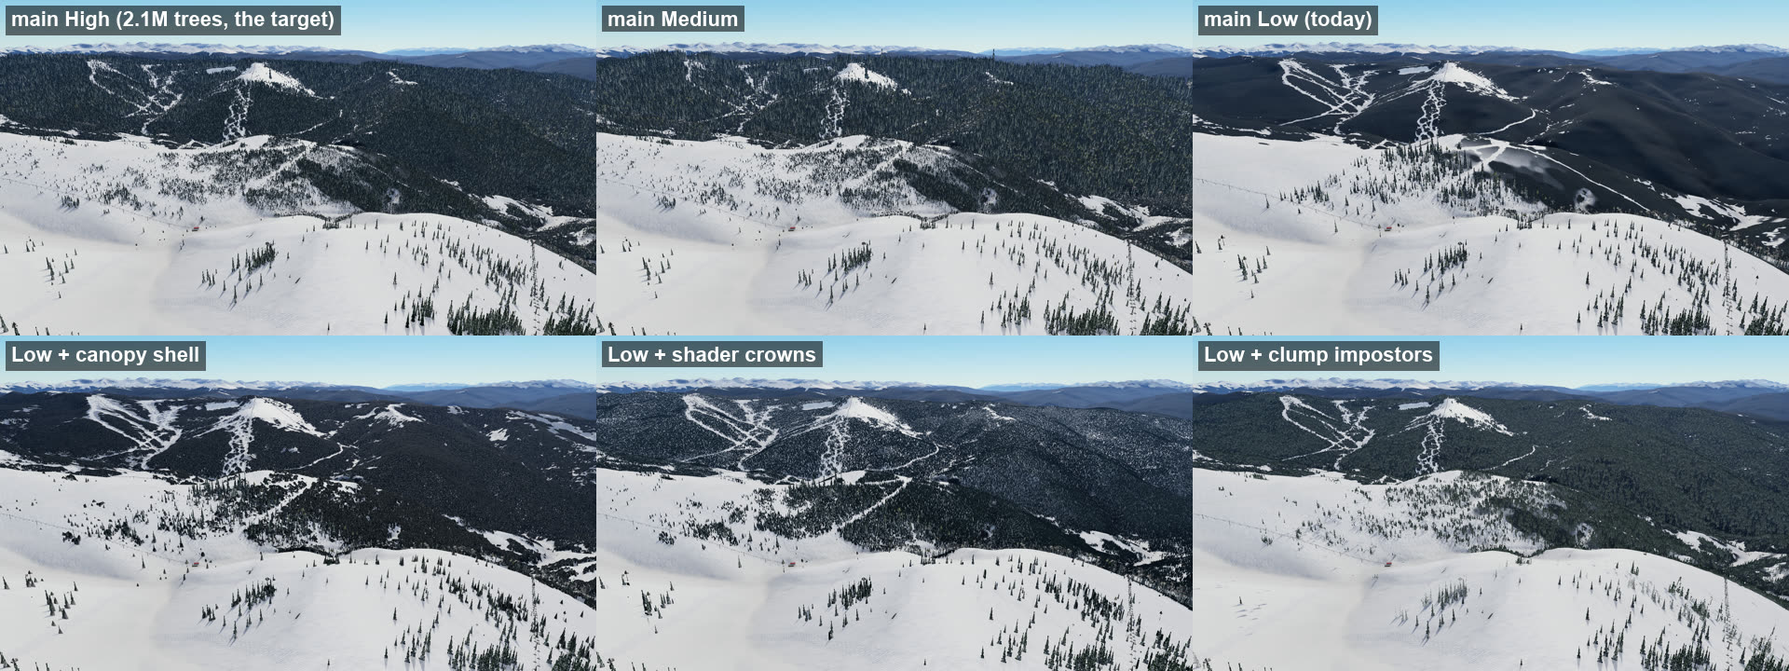
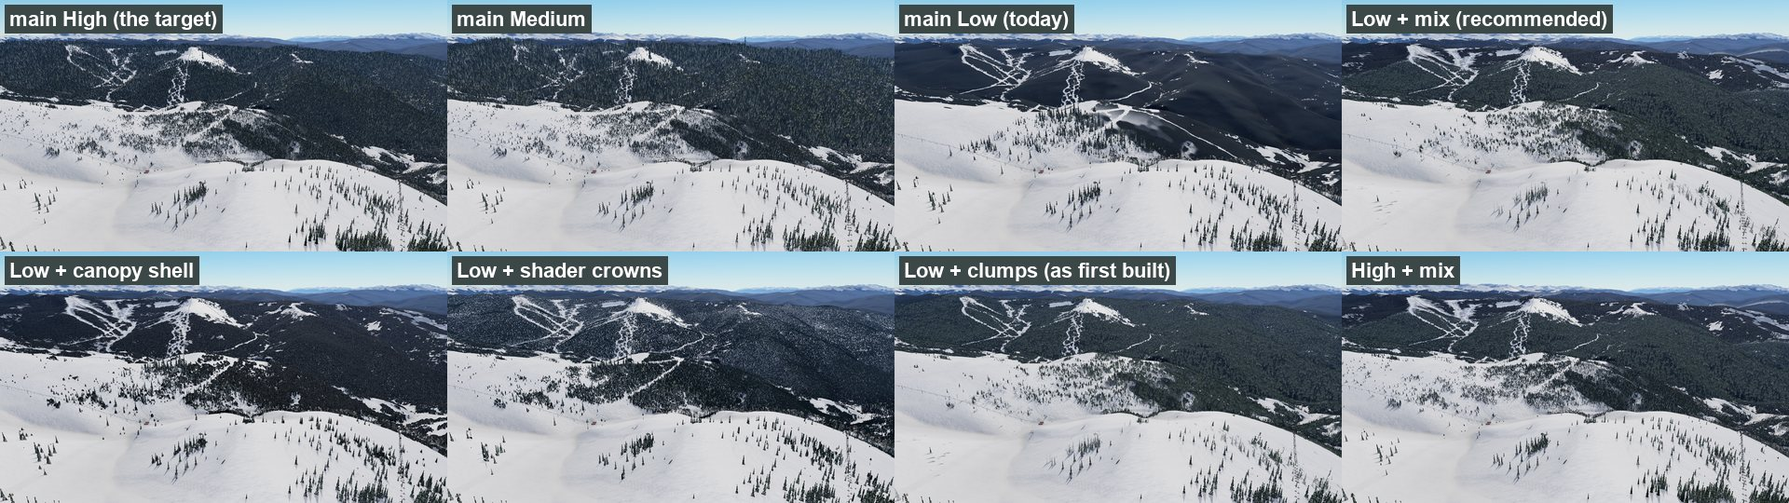
FEAT-278: after Drew's review, recommend the mix (clumps to 4.5 km, then the canopy shell) with the crown dither; review table, what was tried, mix column in the comparison; canopy_clip measures flicker and pops over the whole frame (--stats)

diff --git a/docs/research/far-forest-canopy.md b/docs/research/far-forest-canopy.md
@@ -1,14 +1,16 @@
 # Far forest canopy: hiding the snow like real trees (FEAT-278)
 
-Card: [FEAT-278 (#614)](https://github.com/drewkeriazes/SnowboardAnywhere/issues/614). Related: BUG-114 (#612), BUG-074 (#417), BUG-069 (#387), FEAT-154 (#347), FEAT-184 (#434), FEAT-228 (#530), FEAT-236 (#556).
+Card: [FEAT-278 (#614)](https://github.com/drewkeriazes/SnowboardAnywhere/issues/614). Related: BUG-114 (#612), BUG-074 (#417), BUG-069 (#387), FEAT-154 (#347), FEAT-184 (#434), FEAT-228 (#530), FEAT-236 (#556). Found along the way: BUG-120 (#632), BUG-121 (#633).
 
-A research and compare card: three ways to draw dense forest at 0.6 to 6 km were prototyped on their own branches, behind a URL flag, and measured against `main` at the same poses, light and settings. Nothing here ships; the winner gets its own build card.
+A research and compare card: three ways to draw dense forest at 0.6 to 6 km were prototyped on their own branches, behind a URL flag, and measured against `main` at the same poses, light and settings. After Drew's review a fourth, a mix of two of them by distance, was built and measured the same way. Nothing here ships; the winner gets its own build card.
 
 ## Recommendation
 
-**Clump impostors.** On Low it turns the flat navy slab into forest that reads close to High in all four views, at noon and at dawn. It is the steadiest of the three in motion. It costs about 0.5 ms of GPU on Low, nothing on Medium, and is slightly cheaper than `main` on High, where it replaces the per-tree impostor ring past 2.5 km and uses about 40 MB less geometry. It needs nothing new in the pack. The canopy shell is the runner-up: just as cheap on the GPU, but its 0.6 to 2 km band reads as dark cones and blotches rather than trees. Shader crowns look good from the snow but cost 3 to 9 ms at 1080p (5 to 15 ms at 1440p), shimmer the most and are too speckled from the air.
+**A mix by distance (`issue-614-canopy-mix`, `?canopy=mix`): clump impostors from where the drawn trees end out to 4.5 km, then the canopy shell out to 14 km.** No one technique won every view (see [Review](#review-2026-11-13)): clumps are the best from the snow and the steadiest in motion but were flat from the air; the shell gives the far mountains texture and shape and hides the ground under them, but from the snow at 0.6 to 3 km it reads as dark blobs; shader crowns look best from the air but cost 3 to 9 ms. The mix uses each where it is strong, and adds a crown dither to the clumps so they keep their texture from the air ([The mix](#the-mix)).
 
-What the build card for clumps has to add (from the prototype's gaps, below): more than one species mix, conservative depth so the cards keep early-Z, the bake off the load path, a check of the handover and runtime setting changes in a real ride, and render-budget and synth-pack coverage.
+On Low it reads close to High in all four views at noon and at dawn. GPU cost against `main` (1080p, ground / aerial): High -0.5 / -1.6 ms, Medium +0.1 / -0.2, Low -0.3 / +0.8 (+0.9 / +1.2 at 1440p). In the ride clip it flickers about as little as clumps alone (3.99 against `main`'s 3.87 on Low; 4.50 against 4.89 on High) and has under half of `main`'s pop-ins at the Low tree edge (8 against 19 in the top-left third of the frame, BUG-121). It needs nothing new in the pack.
+
+What the build card has to decide: whether High uses the mix too, or keeps `main`'s impostors with the shell only past 9 km (on High the mix is cheaper but a small step down from today; see [The mix](#the-mix)). What it has to add (from the prototypes' gaps, below): the shell reads stem density as well as the detected crowns, so its clearings stop being larger than High's; the shell's tile builds off the main thread (330 ms over about 80 frames today, up to 7.6 ms in one); fewer shell draw calls on Low (+38 for the mix); more than one species mix in the clumps; conservative depth so the clump cards keep early-Z; the clump bake off the load path; the clumps' dawn tone (still darker than High's warm-lit crowns); a check of the 4.5 km seam and of runtime setting changes in a real ride; render-budget and synth-pack coverage.
 
 ## The problem
 
@@ -31,10 +33,10 @@ Fixed poses in `game/tools/canopy-views.json` (pack metres, heading from grid no
 
 - **Stills:** `game/tools/canopy_compare.mjs` shoots every view per build at noon (12 h) and low sun (7.6 h), at 1920x1080 and 2560x1440, on each preset (High, Medium, Low as Settings > Graphics sets them, pixel ratio 1, Auto quality off), clear weather, Vail v4 pack, on Drew's RTX 2070 SUPER (ANGLE D3D11, headless). It waits for the tiles, trees and the candidate's own build to settle.
 - **Cost:** GPU time per frame from timer queries (`EXT_disjoint_timer_query_webgl2`), median of 30 frames after a 120-frame warm-up; every build measured twice in alternating order and the lower of the two taken. Wall-clock frame times swung by up to 10 ms between identical runs on this PC (the GPU idles at 300 MHz between bursts and the desktop is in use), GPU time by about 0.4 ms; two of the eight passes were still disturbed (main's second pass on Medium and Low, crowns' first on High and Medium), which the minimum discards. Draw calls, triangles and a scene memory estimate (every geometry buffer and texture reachable from the scene, counted once) come from the same frames.
-- **Handover:** `game/tools/canopy_clip.mjs` glides the eye camera 500 m down The Slot at 25 m/s looking at the middle of the Sun Up Express, Low and High, 30 fps. Two numbers from each clip's forest band (rows 25 to 60%): spikes in the frame-to-frame difference (a pop) and the temporal second difference (flicker; smooth motion mostly cancels).
+- **Handover:** `game/tools/canopy_clip.mjs` glides the eye camera 500 m down The Slot at 25 m/s looking at the middle of the Sun Up Express, Low and High, 30 fps. Two numbers from each clip, over the whole frame (decoded to 640x360): flicker, the mean temporal second difference per pixel (smooth motion mostly cancels), and pops, a 16 px block whose brightness steps between two frames while holding steady for 4 frames either side (something appeared or vanished rather than slid past), binned to a 3x3 grid of the frame. The first write-up measured only rows 25 to 60% and reported no pops; that missed the pop-ins Drew saw at the top left on Low.
 - **Baselines:** `main` at each preset. `main` High is the brute-force look the card calls right.
 
-The full set (every build, preset, view and light, 1080p frames and native-pixel 1440p crops, a full-size flip view, and the handover clips) is on the comparison page, a private claude.ai artifact: https://claude.ai/artifact/2gWCh56cdmCCSaZNAceLgA. Grids of Low with each candidate against `main` (1080p, scaled):
+The full set (every build, preset, view and light, 1080p frames and native-pixel 1440p crops, a full-size flip view, and the handover clips) is on the comparison page, a private claude.ai artifact: https://claude.ai/artifact/2gWCh56cdmCCSaZNAceLgA. Grids of Low with each candidate against `main`, and the mix on High (1080p, scaled):
 
 | View | Noon | Low sun (7.6 h) |
 |---|---|---|
@@ -59,32 +61,65 @@ Each is on its own branch, off this card's branch, behind `?canopy=<name>`; with
 
 `game/src/terrain/canopyCrowns.ts`, spliced into the terrain shader under a define: each 4 m cell of the tree map holds at most one jittered ellipsoid crown from a hash, sized by the canopy height (put in the trees texture's spare A channel). Per pixel the view ray is walked back cell by cell (up to 20) with front-to-back occlusion, so crowns have real parallax and a lit and a shaded side; pixels that show snow walk toward the sun for short crown shadows. Past about 1.7 km (1080p) crowns hand over to 8 m clumps, then to the old flat canopy past about 3.5 km, so the lattice never aliases into moire. Inside the drawn trees' reach it fills only the share the drawn trees leave over, so High and Medium get no double forest.
 
+## Review (2026-11-13)
+
+Drew went through the comparison page and the clips. The first write-up recommended clumps on the ground views and the flicker numbers; the review ranked each view on its own and reversed parts of it.
+
+| View | Best | Worst | Notes |
+|---|---|---|---|
+| Ground stills, Low | clumps | `main`, shell | `main` is the flat slab; the shell's near band reads as dark cones |
+| Handover clip, Low | crowns, then clumps | `main` (top left), shell (top right) | Pop-ins at the top left as the rider closes in: the drawn trees appearing at Low's 600 m edge, on `main` too (BUG-121) |
+| Handover clip, High | clumps | | Smoother, less jitter, still reads 3D |
+| Aerial, noon | crowns, shell | clumps | Clumps read as flat felt from above |
+| Aerial, dawn (7.6 h) | crowns, then shell | clumps | Clumps barely change `main` Low's dark slab |
+| Far mountains | shell | | Texture and shape, and no brown ground showing under it |
+
+Two claims in the first write-up were wrong: shader crowns are not "too speckled and grey" from the air (they are the closest to High there), and "no pops were measured" came from a measure that only looked at rows 25 to 60% of the frame. Drew also circled grey-brown ground between the trees at 1 to 3 km on **`main` High**, the target itself; none of the candidates touches the ground under the drawn trees, so it is its own card (BUG-120, #632).
+
+Drew's direction: combine techniques by render distance, the shell for the far mountains.
+
+## The mix
+
+Branch `issue-614-canopy-mix` (the clumps branch with the shell merged in), `?canopy=mix`. Both prototypes run at once: the drawn trees, then the clumps from where the trees' full density ends (Low 600 m, Medium 1.9 km, High 2.5 km) out to 4.5 km (at least 800 m and half the trees' reach past their edge), then the shell from there to 14 km (sinking over the last 2 km, where the terrain's canopy lift takes over). The shell rises over the same 300 m the clumps dissolve out over. `?clumpfar=` and `?shellfar=` move the two edges. Both read the Vegetation bands every frame, so a Trees or Forest change moves them with no rebuild. On High the mix replaces the per-tree impostors past 2.5 km (main draws them to 9 km).
+
+What was tried on the way, on Low at the aerial and The Slot corner, noon and dawn:
+
+1. **Handover at 2 km** (the shell from 2 km). From the air this looked right, but from the snow the slope 2 to 3 km out read as the shell's dark blobs with smooth ridgelines and trails that look too wide, where clumps alone read as trees. The shell's weak band is not only its 4 m tiles near the trees; it is any shell seen at a grazing angle within about 3 km. Starting at 2 km also saved less than expected: the shell still built 200 to 270 tiles (25 to 29 MB), because the tile count is set by the far rings, not the near ones.
+2. **Why the clumps are flat from the air.** The stand atlases are baked at full size and box-filtered down the mips, so far off a pixel shows the average of many crowns: their snow, their sunlit sides and their shaded gaps blend into one dark tone. At dawn every crown gets the stand's mostly-shaded average. The shell and the crowns keep a per-crown speckle instead, which is what High's real trees make when they alias. More snow on the crowns (`?clumpsnow=0.7`) and a brighter tone (`?clumpgain=1.35`) helped little.
+3. **Crown dither** (`clumps.ts`, on in the mix, `?clumpdither=0` turns it off). Where the atlas is minified, each pixel draws one crown from a hash per 4.5 m world cell: lit or shaded, snowy or bare, with the averaged value as its chance, and the needle tone varied 70 to 130%. The mean stays the same and the speckle comes back. Snowy crowns draw at 0.4 white (`?clumpspeak=`; at 0.85 they read as hard white dots). From the air the clumps now read close to High at noon; at dawn they have the texture but are still darker than High's warm-lit crowns. From the snow at dawn it also helps: the far slope at The Slot corner goes from a flat brown-dark tone to textured forest.
+4. **Dither shimmer.** In the Low clip the dither raised flicker from 3.91 (clumps alone) to 4.28, as much as shader crowns: a crown cell 1 to 2 px across flips as the camera moves. It now fades back to the average where a cell is under about 2 px (`?clumpdpx0=1.2&clumpdpx1=2.5`, from the cell's screen footprint), which brought it to 3.99 (High 4.70 to 4.50) and kept the texture from the air.
+5. **Handover at 4.5 km, shell to 14 km.** From the snow the clumps carry everything within 3 km, where they were best; the shell carries the far ridges and the ranges behind them.
+
+Gaps seen in the mix: past 4.5 km the shell leaves larger white clearings than High (it reads only the detected crowns map, `cover/pack-stands.png` G, while High also draws the generated stems); the shell's ridgelines are smooth where High's have tree tops; the seam at 4.5 km was not checked in a live ride. On **High** the mix is a small step down from `main` High, the target: past 2.5 km the clumps read greener and smoother than `main`'s per-tree impostors, and past 4.5 km the shell's clearings show. The build card has to choose whether High keeps `main`'s impostors out to 9 km with the shell only past them (High looks as today; the mix's 0.5 to 1.6 ms saving there is given up), or takes the mix and fixes those two gaps.
+
 ## Comparison
 
-GPU ms per frame, change against `main` at the same view and preset (lower of two passes). "Ground" is the mean of the three ground views; the aerial is its own column because forest fills most of that frame.
+GPU ms per frame, change against `main` at the same view and preset (lower of two passes). "Ground" is the mean of the three ground views; the aerial is its own column because forest fills most of that frame. Shell, crowns and clumps were measured in the first session; the mix in a second session against `main` measured again in that session, alternating (main 1080p ground / aerial there: High 10.2 / 15.6, Medium 9.3 / 13.7, Low 9.3 / 12.1).
 
-| | `main` ground / aerial | Shell | Crowns | Clumps |
+| | `main` ground / aerial | Shell | Crowns | Clumps | **Mix** |
+|---|---|---|---|---|---|
+| High 1080p | 10.3 / 15.4 | +0.0 / +0.1 | +2.9 / +8.4 | -0.1 / -0.3 | **-0.5 / -1.6** |
+| Medium 1080p | 9.4 / 13.8 | +0.1 / +0.1 | +3.5 / +9.1 | +0.1 / -0.1 | **+0.1 / -0.2** |
+| Low 1080p | 8.6 / 12.5 | +0.2 / +0.2 | +3.3 / +8.3 | +0.6 / +0.5 | **-0.3 / +0.8** |
+| High 1440p | 14.6 / 22.1 | -0.1 / +0.1 | +5.2 / +14.9 | +0.0 / -1.4 | **-0.7 / -2.2** |
+| Medium 1440p | 13.4 / 19.9 | +0.3 / +0.1 | +5.1 / +14.0 | +0.6 / +0.1 | **+0.1 / -0.5** |
+| Low 1440p | 12.5 / 18.1 | +0.4 / +1.1 | +5.1 / +13.4 | +0.8 / +0.9 | **+0.9 / +1.2** |
+
+The mix's Low ground figure at 1080p (-0.3) is within the noise (one `main` pass on Low was disturbed and discarded); read it as no change. It was measured before the dither fade (step 4 above), which adds one `fwidth` per clump pixel.
+
+| | Canopy shell | Clump impostors | Shader crowns | **Mix** (clumps to 4.5 km, shell past) |
 |---|---|---|---|---|
-| High 1080p | 10.3 / 15.4 | +0.0 / +0.1 | +2.9 / +8.4 | -0.1 / -0.3 |
-| Medium 1080p | 9.4 / 13.8 | +0.1 / +0.1 | +3.5 / +9.1 | +0.1 / -0.1 |
-| Low 1080p | 8.6 / 12.5 | +0.2 / +0.2 | +3.3 / +8.3 | +0.6 / +0.5 |
-| High 1440p | 14.6 / 22.1 | -0.1 / +0.1 | +5.2 / +14.9 | +0.0 / -1.4 |
-| Medium 1440p | 13.4 / 19.9 | +0.3 / +0.1 | +5.1 / +14.0 | +0.6 / +0.1 |
-| Low 1440p | 12.5 / 18.1 | +0.4 / +1.1 | +5.1 / +13.4 | +0.8 / +0.9 |
-
-| | Canopy shell | Clump impostors | Shader crowns |
-|---|---|---|---|
-| **Looks, Low** | Big step up: speckled crown mass with white runs. From the air close to High. From the snow the 0.6 to 2 km band is dark cones and blotches with more white between than High's spires; dark and harsh at dawn | Closest to High in every view, noon and dawn: uneven crown tops, runs and glades cut clean, single trees on sparse slopes. Gaps: a rounder "carpet" than High's spires at 2 to 4 km, smoother skylines, wider-looking trails, less snow speckle in dense stands | Good from the snow: crowns with parallax and white between. From the air too speckled and grey. Flat tops on stands seen edge on (capped walks); no tree silhouettes on ridgelines; at 720p slopes past 2.5 km are still the slab |
-| **Looks, Medium and High** | Unchanged (fills only past the impostors) | Close to `main`, slightly greener and smoother past 1.9 / 2.5 km | Unchanged |
-| **Flicker in the clip, Low / High** (`main` 2.92 / 3.74) | 3.04 / 3.74 | 2.81 / 3.32, the steadiest | 3.33 / 3.78, the most |
-| **Pops in the clip** | None measured | None measured | None measured |
-| **Draw calls (1080p)** | Low +77 to +81, Medium +24 to +30, High +15 to +17 | +1 on Low; High 65 fewer (tree draws 99 to 31 to 42) | 0 |
-| **Triangles** | Low +0.7 M | Low +0.07 M; High -0.2 M | 0 |
-| **GPU memory** | Low 31 to 35 MB, High 7 MB of tile buffers | 24 MB of atlases plus 1 to 3 MB of instances; High drops about 40 MB of tree geometry | None (uses a spare channel) |
-| **One-off build** | Low 730 ms over 163 frames, up to 6 to 8 ms in one frame; 23 MB of CPU for the crown pyramid | Bake 85 to 140 ms at load (synchronous), placement spread over frames | None |
-| **Pack data** | None new. A per-texel canopy height would help the near band (MapPacker) | None new. Species per cell would allow mixed stands (MapPacker) | None new |
-| **Effort to production** | 6 to 9 days | 5 to 8 days | 4 to 7 days, and under 1 ms is not assured |
-| **Main risks** | Draw calls on Low; main-thread build hitches; LOD pops between tile levels; looks least like trees near | `gl_FragDepth` costs early-Z on every covered pixel; one conifer mix; repetition on big uniform slopes; trees swap identity in the handover band | Fragment cost scales with on-screen forest, on a terrain shader already over half the frame (FEAT-236); register pressure for every terrain pixel |
+| **Looks, Low** | Big step up: speckled crown mass with white runs. From the air close to High. From the snow the 0.6 to 2 km band is dark cones and blotches with more white between than High's spires; dark and harsh at dawn | Closest to High in every view, noon and dawn: uneven crown tops, runs and glades cut clean, single trees on sparse slopes. Gaps: a rounder "carpet" than High's spires at 2 to 4 km, smoother skylines, wider-looking trails, less snow speckle in dense stands. Flat from the air, worst at dawn (Drew's review) | Good from the snow: crowns with parallax and white between. From the air the closest to High (Drew's review; the first write-up called it too speckled). Flat tops on stands seen edge on (capped walks); no tree silhouettes on ridgelines; at 720p slopes past 2.5 km are still the slab | Close to High in all four views, noon and dawn: clumps within 4.5 km (with the crown dither, textured from the air too), the shell's texture on the far ridges. Gaps: clearings past 4.5 km larger than High's; smooth far ridgelines; dawn darker than High |
+| **Looks, Medium and High** | Unchanged (fills only past the impostors) | Close to `main`, slightly greener and smoother past 1.9 / 2.5 km | Unchanged | Clumps 1.9 / 2.5 to 4.5 km, the shell past, in place of `main`'s impostors to 5.4 / 9 km |
+| **Flicker in the clip, whole frame, Low / High** (`main` 3.87 / 4.89) | 4.10 / 4.89 | 3.91 / 4.48, the steadiest | 4.30 / 4.94, the most | 3.99 / 4.50 (4.28 / 4.70 before the dither fade) |
+| **Pops in the clip, Low / High** (`main` 78 / 55; top-left third of the frame 19 / 3) | 74 / 52; top left 21 / 2 | 53 / 58; top left 7 / 4 | 70 / 52; top left 19 / 5 | 53 / 57; top left 8 / 4 |
+| **Draw calls (1080p)** | Low +77 to +81, Medium +24 to +30, High +15 to +17 | +1 on Low; High 65 fewer (tree draws 99 to 31 to 42) | 0 | Low +38, Medium +12, High 28 fewer (four-view means) |
+| **Triangles** | Low +0.7 M | Low +0.07 M; High -0.2 M | 0 | Low +0.35 M, Medium +0.26 M, High +0.04 M |
+| **GPU memory** | Low 31 to 35 MB, High 7 MB of tile buffers | 24 MB of atlases plus 1 to 3 MB of instances; High drops about 40 MB of tree geometry | None (uses a spare channel) | 24 MB of clump atlases plus 17 MB of shell tiles (136 tiles); scene geometry Low +23 MB, High -18 MB |
+| **One-off build** | Low 730 ms over 163 frames, up to 6 to 8 ms in one frame; 23 MB of CPU for the crown pyramid | Bake 85 to 140 ms at load (synchronous), placement spread over frames | None | Clump bake 90 to 140 ms at load; shell 330 ms over about 80 frames, up to 7.6 ms in one; the CPU crown pyramid (23 MB) |
+| **Pack data** | None new. A per-texel canopy height would help the near band (MapPacker) | None new. Species per cell would allow mixed stands (MapPacker) | None new | None new; both MapPacker notes apply |
+| **Effort to production** | 6 to 9 days | 5 to 8 days | 4 to 7 days, and under 1 ms is not assured | 8 to 12 days (both, plus the seam) |
+| **Main risks** | Draw calls on Low; main-thread build hitches; LOD pops between tile levels; looks least like trees near | `gl_FragDepth` costs early-Z on every covered pixel; one conifer mix; repetition on big uniform slopes; trees swap identity in the handover band | Fragment cost scales with on-screen forest, on a terrain shader already over half the frame (FEAT-236); register pressure for every terrain pixel | Both sets of risks, though the shell's worst (its near band, its 4 m tiles) are gone; a seam at 4.5 km between two different looks |
 
 The baselines also say something: on this GPU High (2.1M trees and sun shadows) costs only about 1.7 ms more GPU than Low at 1080p (10.3 against 8.6 ms on the ground views). High's price is memory (about 90 MB more geometry), loading and CPU more than GPU time.
 
@@ -116,10 +151,10 @@ $env:SHOT_DIST='C:\Users\Drew\git\wt614-clump-impostors\game\dist'; $env:SHOT_PA
 node tools/launcher.mjs --port 5191 --no-open
 ```
 
-then open `http://localhost:5191/?pack=vail&canopy=clumps` (or `shell`, `crowns` with that branch's `dist`). Set Graphics to Low to see the difference; Auto quality changes the reach while riding.
+then open `http://localhost:5191/?pack=vail&canopy=clumps` (or `shell`, `crowns` with that branch's `dist`; `mix` with `wt614-canopy-mix`'s, the recommended one). Set Graphics to Low to see the difference; Auto quality changes the reach while riding.
 
 ## Tools added
 
 - `game/tools/canopy_compare.mjs`: the stills and cost matrix (`--presets`, `--times`, `--sizes`, `--only`, `--no-shots`; `SHOT_DIST`, `SHOT_PACKS`, `SHOT_QUERY`).
-- `game/tools/canopy_clip.mjs`: the handover clip down The Slot (`--preset`, `--time`, `--speed`, `--seconds`, `--path`, `--look`).
+- `game/tools/canopy_clip.mjs`: the handover clip down The Slot (`--preset`, `--time`, `--speed`, `--seconds`, `--path`, `--look`); prints the clip's flicker and pops over the whole frame, and `--stats a.mp4 b.mp4` measures existing clips.
 - `game/tools/canopy-views.json`: the four views.

diff --git a/docs/developer-guide.md b/docs/developer-guide.md
@@ -171,7 +171,7 @@ A new event: add it to the union, emit it where the news is known, subscribe whe
 - `treeshot.mjs [outDir] [--headed | --gpu] [--only=atlas,impostors,lineup,lods,distance,snow,shrubs] [--species=0,3] [--times]` the tree kit on its own (FEAT-156; bundles `tools/treeshot/scene.ts` with esbuild, no game build or pack): `lineup.png` every species x variant at LOD0 on snow with a 1.8 m rider and a 5 m grid, front and back light; `lods-<species>.png` LOD0 / LOD1 / LOD2 / impostor at one framing; `distance.png` a row from 20 m to 2 km and tiles either side of each band edge (the dither mix); `atlas.png` and `impostors.png` the card atlas and the baked impostor atlases (albedo, normals, snow mask); `lineup-snow-<0.5|1|ghost>.png` the lineup under snow and `snow-<species>.png` LOD0 / LOD1 / LOD2 / impostor at snow load 0, 0.5, 1 and as a snow ghost (FEAT-157; spruce, fir and Douglas-fir unless `--species`), with a table of each tile's share of snow and brightness so near and far can be matched; `shrubs.png` (FEAT-159) willow, juniper, sagebrush, Gambel oak and young conifers at a few heights under 0, 0.5 and 1.5 m of snow, from the side and from above, with the shrubs' triangles against their budgets (willow and oak 60, juniper and sagebrush 40, young conifers 96). Prints triangles per species per LOD, texture memory and generation time against the card's budgets (LOD0 600 conifers, 400 aspen and bare hardwood, 200 krummholz and snags; LOD1 96; textures 28 MB since FEAT-233's two impostor rows; generation 150 ms) and exits 1 when one is broken. Default out dir `shots-trees/`.
 - `standcheck.mjs` stand density stems, no browser (FEAT-074): from a synthetic stand image, the stem count follows the chance per 4 m cell, the same stems every run, a lower density is a subset, stems stay in their cell at the stand's height and species, the ground height is interpolated within 5 cm on a 30 degree plane. Exits 1 on a failed check.
 - `canopy_compare.mjs <pack> <outDir> [--presets high,medium,low] [--times 12,7.6] [--sizes 1920x1080,2560x1440] [--only view,...] [--no-shots] [--gpu]` (FEAT-278) stills and cost of one build at the far forest views (`tools/canopy-views.json`) per graphics preset (seeded into the saved settings, Auto quality off), time of day and size: per still the GPU time from timer queries after a warm-up (wall-clock frame times swing by up to 10 ms between runs on a desktop GPU), the wall time, draw calls, triangles, the trees' share and an estimate of the scene's GPU memory, into `<outDir>/<preset>/` and `stats.json`; a build can publish its own numbers on `window.__canopy`. A/B with `SHOT_DIST` and a flag in `SHOT_QUERY`.
-- `canopy_clip.mjs <pack> <out.mp4> [--preset low] [--time 12] [--speed 25] [--seconds 20] [--path x,y;...] [--look x,y,z] [--gpu]` (FEAT-278) the eye camera glides down a path (default The Slot below the Back Bowls sign) at riding speed looking at a fixed point (the Sun Up Express), one frame per step, encoded with ffmpeg: for pops and shimmer at the trees' handover.
+- `canopy_clip.mjs <pack> <out.mp4> [--preset low] [--time 12] [--speed 25] [--seconds 20] [--path x,y;...] [--look x,y,z] [--gpu]` (FEAT-278) the eye camera glides down a path (default The Slot below the Back Bowls sign) at riding speed looking at a fixed point (the Sun Up Express), one frame per step, encoded with ffmpeg: for pops and shimmer at the trees' handover. It then prints the clip's flicker (mean temporal second difference) and pops (16 px blocks that step in brightness between steady frames, by third of the frame); `canopy_clip.mjs --stats a.mp4 ...` measures clips already made.
 - `treeperf.mjs [pack] [spot ...] [--gpu]` tree cost at the `docs/compare/` spots (FEAT-156): the eye camera at each view, then the median frame time, draw calls and triangles for the frame and for the trees alone (the frame with the tree group hidden, subtracted; shadow passes included, and instances the shader drops still count), the LOD0 / LOD1 instances in the buffers, and the trees' calls and triangles split per LOD and for the shadow pass (FEAT-158). A/B against another build with `SHOT_DIST=<dist>`.
 - `playperf.mjs [pack] [--at x,y[,headingDeg]] [--seconds 10] [--ablate] [--vsync] [--profile <out.json>] [--gpu | --headed]` frame cost in real play (FEAT-086): the game's own requestAnimationFrame loop from the main menu's Ride button, auto quality off, a restart at the spot, then a stand and an ArrowUp tuck. Per window: frame interval median / p95 / p99 / max and frames over 33 ms, main-thread time per frame split by system (the per-frame methods on `window.__sim`, timed in place), what the slow frames had in them (shader programs, geometry, textures, tree repacks, tiles, terrain builds, heap drops), draw calls, triangles and the JS heap with the typed arrays that hold it. `--ablate` times the frame from the eye camera with each scene group hidden in turn and without the shadow pass. Vsync is off by default (the interval is what the GPU allows; right for medians and `--ablate`, but frames then queue and stall); `--vsync` paces frames as in play, for stutter. `--profile` samples the JavaScript of the tuck (build with `--minify false` outside the repo and serve it with `SHOT_DIST` for names). Results in `docs/research/perf-pass-2026-11.md`.
 - `tileperf.mjs [pack] [seconds] [--straight] [--track] [--emulate-coarse | --look4] [--shots <dir>] [--gpu | --headed]` fine, coarse, mask, dir, ao and moguls tile cost from load to riding at the start and over a ride (FEAT-229, BUG-087): tiles resident, fetched, bytes and decode times (each set's `stats`, a `TileStats` in `pack/tileStats.ts`: `createImageBitmap` wall time and the main-thread copy and conversion; the mask's fenced GPU readback counts only its main-thread parts), with every `request()` attributed to the terrain chunk that made it (by vertex spacing) or to anything else (prefetch, the spawn box, lifts), so it counts the fine tiles only 4 and 8 m chunks want. After the load it restarts the rider at the spawn (R held), so every run and mode rides the same frames. `--emulate-coarse` drops those chunks' fine requests (they build from mid) to show the most a 4 m height set could save; `--look4` keeps today's loading but builds them from a 4 m box average, the look of such a set; `--shots <dir>` saves the frame at the start and every 10 s of the ride for before / after sheets. Results in `docs/research/perf-log.md`.
